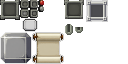
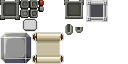
Fix two-tone buttons; weight labels instead of tiers; smaller durability label
Claude-Session: https://claude.ai/code/session_01JDuagXZUm92QiRxDizBnyo

diff --git a/core/src/main/java/com/shatteredpixel/shatteredpixeldungeon/items/armor/Armor.java b/core/src/main/java/com/shatteredpixel/shatteredpixeldungeon/items/armor/Armor.java
@@ -183,6 +183,15 @@ public class Armor extends EquipableItem {
 		return 0f;
 	}
 
+	public String weightLabel() {
+		if (material() == null) return Messages.get(Armor.class, "tier_label", tier);
+		float p = weightPenalty();
+		if (p <= 0)    return Messages.get(Armor.class, "label_light");
+		if (p <= 0.1f) return Messages.get(Armor.class, "label_medium");
+		if (p <= 0.2f) return Messages.get(Armor.class, "label_heavy");
+		return Messages.get(Armor.class, "label_very_heavy");
+	}
+
 	public float magicResist() {
 		Material m = material();
 		return (m == null || broken()) ? 0f : m.magicResist;
@@ -688,7 +697,7 @@ public class Armor extends EquipableItem {
 		
 		if (levelKnown) {
 
-			info += "\n\n" + Messages.get(Armor.class, "curr_absorb", tier, DRMin(), DRMax(), STRReq());
+			info += "\n\n" + Messages.get(Armor.class, "curr_absorb", weightLabel(), DRMin(), DRMax(), STRReq());
 			if (material() != null) {
 				info += "\n\n" + Messages.get(Armor.class, "material_info", material().title()) + " "
 						+ (broken() ? Messages.get(Armor.class, "condition_broken") : Messages.get(Armor.class, "condition_info", (int)Math.ceil(condition)));
@@ -700,7 +709,7 @@ public class Armor extends EquipableItem {
 				info += " " + Messages.get(Armor.class, "too_heavy");
 			}
 		} else {
-			info += "\n\n" + Messages.get(Armor.class, "avg_absorb", tier, DRMin(0), DRMax(0), STRReq(0));
+			info += "\n\n" + Messages.get(Armor.class, "avg_absorb", weightLabel(), DRMin(0), DRMax(0), STRReq(0));
 
 			if (Dungeon.hero != null && STRReq(0) > Dungeon.hero.STR()) {
 				info += " " + Messages.get(Armor.class, "probably_too_heavy");

diff --git a/core/src/main/java/com/shatteredpixel/shatteredpixeldungeon/items/weapon/melee/MeleeWeapon.java b/core/src/main/java/com/shatteredpixel/shatteredpixeldungeon/items/weapon/melee/MeleeWeapon.java
@@ -294,6 +294,14 @@ public class MeleeWeapon extends Weapon {
 		return 1f;
 	}
 
+	//MOD: replaces "tier-N" in item info now that materials decide power
+	public String weightLabel() {
+		if (material() == null) return Messages.get(MeleeWeapon.class, "tier_label", tier);
+		if (weightFactor() < 1f) return Messages.get(MeleeWeapon.class, "label_light");
+		if (weightFactor() > 1f) return Messages.get(MeleeWeapon.class, "label_heavy");
+		return Messages.get(MeleeWeapon.class, "label_medium");
+	}
+
 	@Override
 	protected float baseDelay(Char owner) {
 		return super.baseDelay(owner) * weightFactor();
@@ -361,7 +369,7 @@ public class MeleeWeapon extends Weapon {
 		String info = super.info();
 
 		if (levelKnown) {
-			info += "\n\n" + Messages.get(MeleeWeapon.class, "stats_known", tier, augment.damageFactor(min()), augment.damageFactor(max()), STRReq());
+			info += "\n\n" + Messages.get(MeleeWeapon.class, "stats_known", weightLabel(), augment.damageFactor(min()), augment.damageFactor(max()), STRReq());
 			if (Dungeon.hero != null) {
 				if (STRReq() > Dungeon.hero.STR()) {
 					info += " " + Messages.get(Weapon.class, "too_heavy");
@@ -370,7 +378,7 @@ public class MeleeWeapon extends Weapon {
 				}
 			}
 		} else {
-			info += "\n\n" + Messages.get(MeleeWeapon.class, "stats_unknown", tier, min(0), max(0), STRReq(0));
+			info += "\n\n" + Messages.get(MeleeWeapon.class, "stats_unknown", weightLabel(), min(0), max(0), STRReq(0));
 			if (Dungeon.hero != null && STRReq(0) > Dungeon.hero.STR()) {
 				info += " " + Messages.get(MeleeWeapon.class, "probably_too_heavy");
 			}

diff --git a/core/src/main/java/com/shatteredpixel/shatteredpixeldungeon/ui/ItemSlot.java b/core/src/main/java/com/shatteredpixel/shatteredpixeldungeon/ui/ItemSlot.java
@@ -143,8 +143,11 @@ public class ItemSlot extends Button {
 		}
 		
 		if (extra != null) {
-			extra.x = x + (width - extra.width()) - margin.right;
-			extra.y = y + margin.top;
+			//MOD: the durability readout is small and sits inside the slot's bevel
+			boolean durability = extra.text() != null && extra.text().endsWith("%");
+			extra.scale.set(durability ? PixelScene.align(0.6f) : 1f);
+			extra.x = x + (width - extra.width()) - margin.right - (durability ? 1 : 0);
+			extra.y = y + margin.top + (durability ? 1 : 0);
 			PixelScene.align(extra);
 
 			if ((status.width() + extra.width()) > width){
